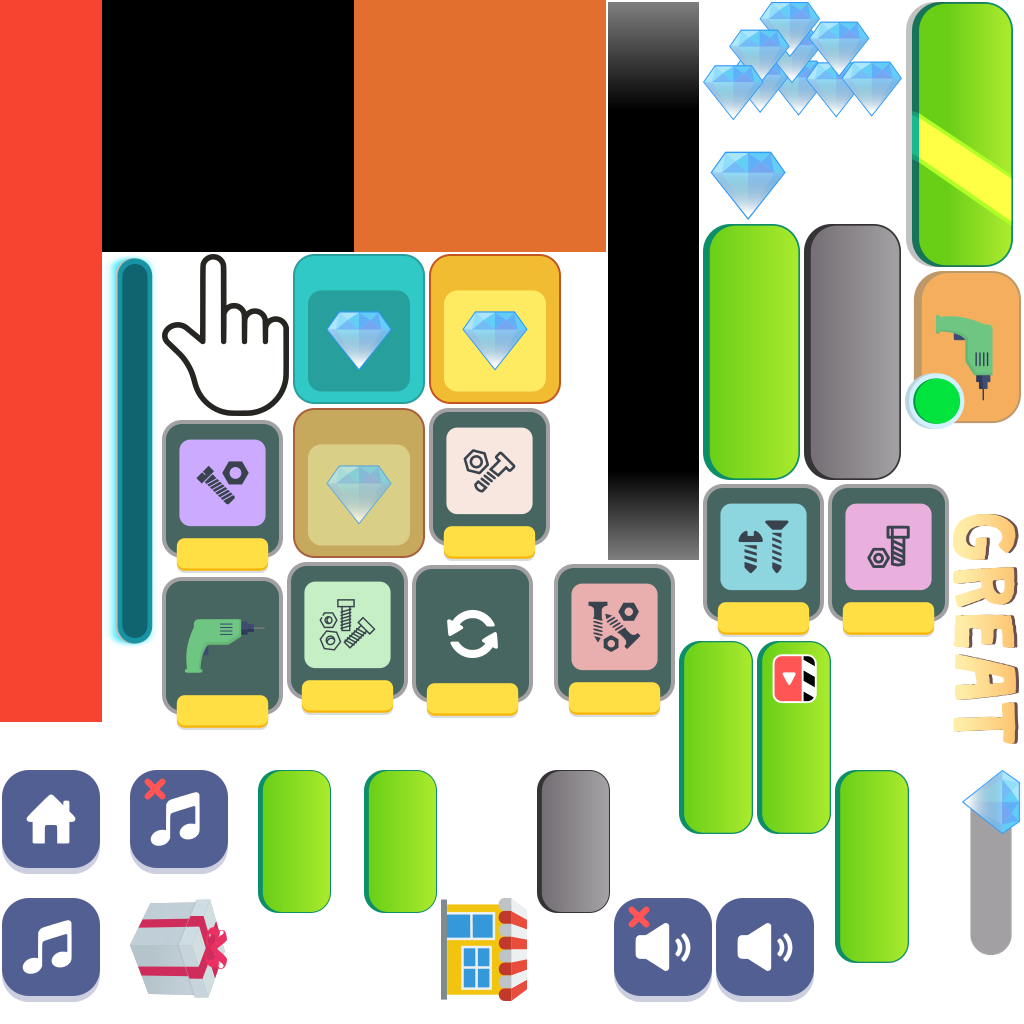
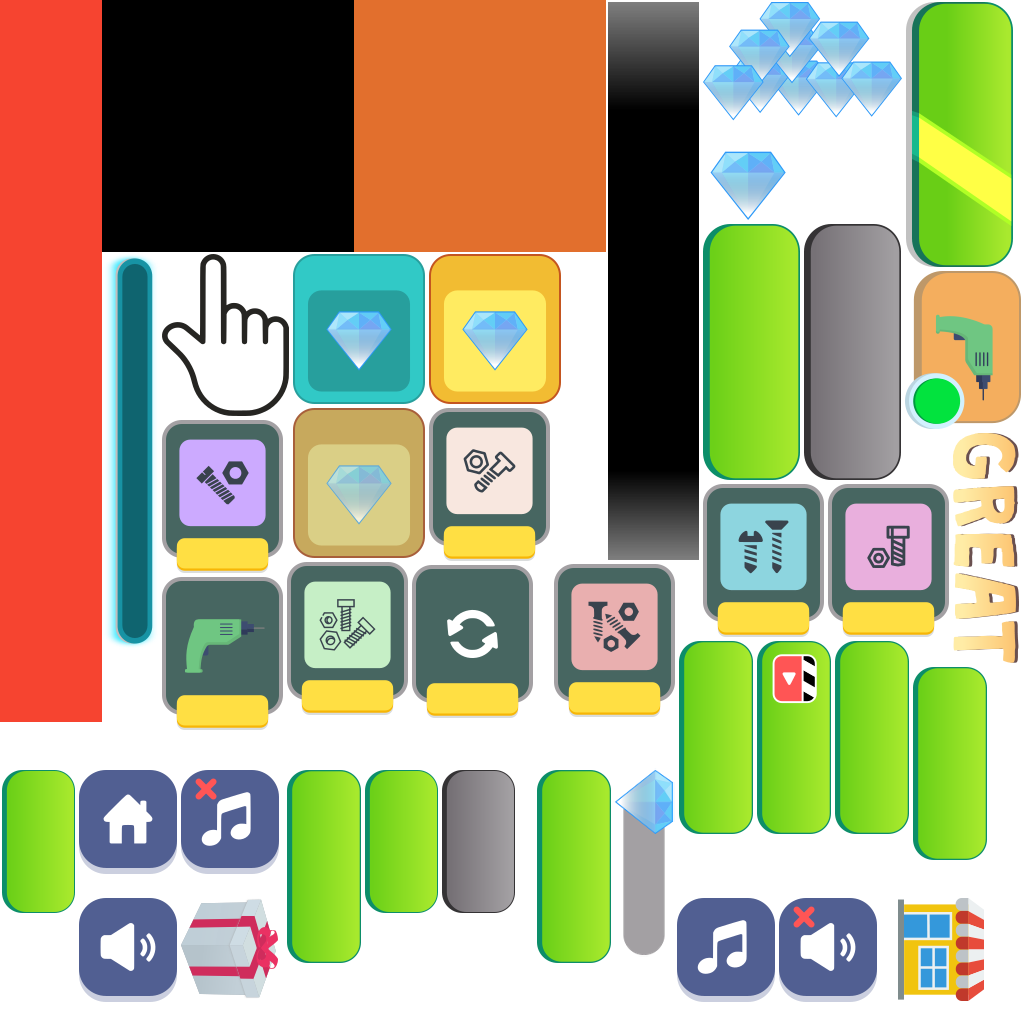
Add files via upload

Changed region(s): [[0.4062, 0.4062, 1.0, 1.0], [0.0, 0.75, 0.375, 1.0]]

diff --git a/scripts/objRefTable.js b/scripts/objRefTable.js
@@ -234,7 +234,11 @@ self.C3_JsPropNameTable = [
 	{Next_B: 0},
 	{Backhome_B: 0},
 	{BannerAd_Detection: 0},
+	{Amount: 0},
 	{GemAd_B: 0},
+	{GemAd_B2: 0},
+	{GemAd_B3: 0},
+	{GemAd_B4: 0},
 	{Pause_B: 0},
 	{Retry_B: 0},
 	{id: 0},
@@ -361,6 +365,9 @@ self.InstanceType = {
 	Backhome_B: class extends self.ISpriteInstance {},
 	BannerAd_Detection: class extends self.ISpriteInstance {},
 	GemAd_B: class extends self.ISpriteInstance {},
+	GemAd_B2: class extends self.ISpriteInstance {},
+	GemAd_B3: class extends self.ISpriteInstance {},
+	GemAd_B4: class extends self.ISpriteInstance {},
 	Pause_B: class extends self.ISpriteInstance {},
 	Retry_B: class extends self.ISpriteInstance {},
 	Screw: class extends self.ISpriteInstance {},